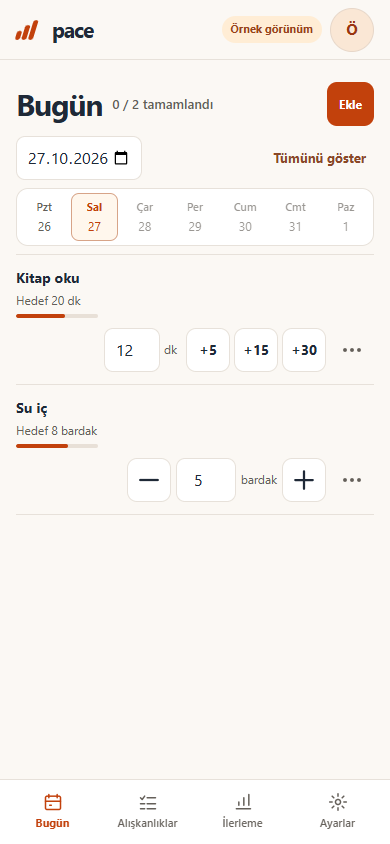
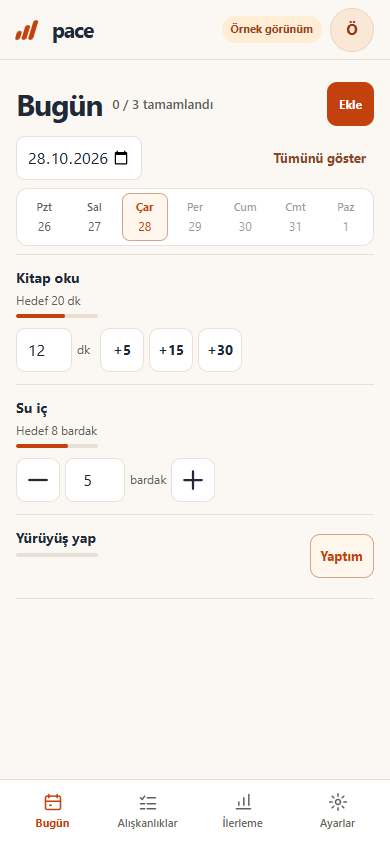
Keep Today focused on recording and add lifetime habit totals and averages

diff --git a/assets/js/app.js b/assets/js/app.js
@@ -1,3 +1,4 @@
+import {habitStatistics} from './statistics.js';
 import {request,isDemo,exportData} from './api.js';
 import {dateKey,parseDate,addDays,weekStart,weekDays,settingsAt,scheduled,amountFor,goalFor,stateFor,dueToday,formatNumber,WEEKDAYS,WEEKDAY_VALUES} from './rules.js';
 import {createEntryQueue} from './entry-queue.js';
@@ -35,14 +36,27 @@ function dayMetrics(habit,day,logs){const h=settingsAt(habit,day),actual=amountF
 function rowMeta(habit,day,logs){const m=dayMetrics(habit,day,logs),h=m.h;let text=h.tracking==='check'?'':(h.direction==='at_most'?'En fazla ':'Hedef ')+formatNumber(m.goal)+(h.unit?' '+shortUnit(h.unit):'');if(h.schedule?.type==='weekly_quota'){const w=stateFor(habit,day,logs,state.week_start);text=(text?text+' · ':'')+'Hafta '+formatNumber(w.actual)+' / '+formatNumber(w.goal)+' gün'}else if(!scheduled(habit,day,state.week_start))text=(text?text+' · ':'')+'Plan dışı';if(h.progression?.enabled)text+=' · +'+formatNumber(h.progression.step);return text}
 function feedbackHTML(id,day){const k=keyFor(id,day),raw=invalidDrafts.get(k),e=entryQueue?.get(id,day);const args=' data-id="'+esc(id)+'" data-day="'+day+'"';if(raw!==undefined)return '<span>Geçerli bir miktar gir.</span><button type="button" class="text-button" data-action="discard"'+args+'>Vazgeç</button>';if(!e)return '';if(e.status==='pending'||e.status==='saving')return '<span>Kaydediliyor…</span>';if(e.status==='error'||e.status==='conflict')return '<span>'+(e.status==='conflict'?'Başka cihazda değişti.':'Kaydedilemedi.')+'</span><button type="button" class="text-button" data-action="retry"'+args+'>'+(e.status==='conflict'?'Yeniden uygula':'Yeniden dene')+'</button><button type="button" class="text-button" data-action="undo"'+args+'>Geri al</button>';if(e.canUndo)return '<button type="button" class="text-button" data-action="undo"'+args+'>Geri al</button>';return ''}
 function habitRow(habit,day){const logs=logsForDisplay(),m=dayMetrics(habit,day,logs),h=m.h,k=keyFor(habit.id,day),value=invalidDrafts.has(k)?invalidDrafts.get(k):m.actual,args=' data-id="'+esc(habit.id)+'" data-day="'+day+'"';let actions;if(h.tracking==='check')actions='<button type="button" class="log-button '+(m.done?'is-complete':'')+'" data-action="toggle"'+args+' aria-pressed="'+m.done+'" aria-label="'+esc(h.name)+(m.done?' kaydını geri al':': yaptım olarak işaretle')+'">'+(m.done?checkIcon+'<span>Yaptım</span>':'Yaptım')+'</button>';else {const input='<label class="sr-only" for="amount-'+esc(habit.id)+'">'+esc(h.name)+(isMinutes(h.unit)?' süresi':' miktarı')+'</label><input class="amount-input" id="amount-'+esc(habit.id)+'" type="number" inputmode="decimal" min="0" max="1000000" step="any" autocomplete="off" value="'+esc(value)+'"'+args+' aria-describedby="feedback-'+esc(habit.id)+'">';if(isMinutes(h.unit))actions='<div class="amount-control time-control">'+input+'<span class="amount-unit">dk</span>'+[5,15,30].map(n=>'<button type="button" class="step-button time-step" data-action="time-step"'+args+' data-delta="'+n+'" aria-label="'+esc(h.name)+' süresine '+n+' dakika ekle">+'+n+'</button>').join('')+'</div>';else actions='<div class="amount-control"><button type="button" class="step-button" data-action="step"'+args+' data-delta="-1" aria-label="'+esc(h.name)+' miktarını azalt">'+icon('<path d="M5 12h14"/>')+'</button>'+input+'<span class="amount-unit">'+esc(h.unit)+'</span><button type="button" class="step-button" data-action="step"'+args+' data-delta="1" aria-label="'+esc(h.name)+' miktarını artır">'+icon('<path d="M5 12h14M12 5v14"/>')+'</button></div>';}
-return '<article class="habit-row '+(h.tracking==='check'?'is-check':'is-quantity')+(m.done?' is-complete':'')+'" data-habit-row="'+esc(habit.id)+'"><div class="habit-main"><div class="habit-copy"><h2>'+esc(h.name)+'</h2><p class="habit-meta">'+esc(rowMeta(habit,day,logs))+'</p><div class="habit-progress"><div class="progress-track" role="progressbar" aria-label="'+esc(h.name)+' günlük ilerleme" aria-valuemin="0" aria-valuemax="100" aria-valuenow="'+Math.round(m.progress*100)+'"><div class="progress-fill" style="width:'+Math.round(m.progress*100)+'%"></div></div><span class="progress-label">'+(m.done?'Tamamlandı':m.h.direction==='at_most'&&!m.exists?'Kayıt yok':'')+'</span></div></div></div><div class="habit-actions">'+actions+'<button type="button" class="more-button" data-action="edit" data-id="'+esc(habit.id)+'" aria-label="'+esc(h.name)+' ayarları">'+moreIcon+'</button></div><div class="entry-feedback" id="feedback-'+esc(habit.id)+'" aria-live="off">'+feedbackHTML(habit.id,day)+'</div></article>'}
+return '<article class="habit-row '+(h.tracking==='check'?'is-check':'is-quantity')+(m.done?' is-complete':'')+'" data-habit-row="'+esc(habit.id)+'"><div class="habit-main"><div class="habit-copy"><h2>'+esc(h.name)+'</h2><p class="habit-meta">'+esc(rowMeta(habit,day,logs))+'</p><div class="habit-progress"><div class="progress-track" role="progressbar" aria-label="'+esc(h.name)+' günlük ilerleme" aria-valuemin="0" aria-valuemax="100" aria-valuenow="'+Math.round(m.progress*100)+'"><div class="progress-fill" style="width:'+Math.round(m.progress*100)+'%"></div></div><span class="progress-label">'+(m.done?'Tamamlandı':m.h.direction==='at_most'&&!m.exists?'Kayıt yok':'')+'</span></div></div></div><div class="habit-actions">'+actions+'</div><div class="entry-feedback" id="feedback-'+esc(habit.id)+'" aria-live="off">'+feedbackHTML(habit.id,day)+'</div></article>'}
 function updateRow(id,day){if(day!==selectedDate)return;const habit=state.habits.find(h=>h.id===id),row=$('#today-list').querySelector('[data-habit-row="'+CSS.escape(id)+'"]');if(!habit||!row)return;const logs=logsForDisplay(),m=dayMetrics(habit,day,logs),input=$('.amount-input',row);row.classList.toggle('is-complete',m.done);$('.habit-meta',row).textContent=rowMeta(habit,day,logs);$('.progress-fill',row).style.width=Math.round(m.progress*100)+'%';$('.progress-track',row).setAttribute('aria-valuenow',String(Math.round(m.progress*100)));$('.progress-label',row).textContent=m.done?'Tamamlandı':m.h.direction==='at_most'&&!m.exists?'Kayıt yok':'';if(input&&document.activeElement!==input)input.value=invalidDrafts.get(keyFor(id,day))??m.actual;if(input)input.setAttribute('aria-invalid',String(invalidDrafts.has(keyFor(id,day))));const button=$('.log-button',row);if(button){button.classList.toggle('is-complete',m.done);button.setAttribute('aria-pressed',String(m.done));button.setAttribute('aria-label',m.h.name+(m.done?' kaydını geri al':': yaptım olarak işaretle'));button.innerHTML=m.done?checkIcon+'<span>Yaptım</span>':'Yaptım'}const feedback=$('.entry-feedback',row),focusedFeedback=feedback.contains(document.activeElement);feedback.innerHTML=feedbackHTML(id,day);if(focusedFeedback)(input||button)?.focus({preventScroll:true});}
 function updateSummary(){const logs=logsForDisplay(),planned=state.habits.filter(h=>dueToday(h,selectedDate,logs,state.week_start)),done=planned.filter(h=>settingsAt(h,selectedDate).schedule?.type==='weekly_quota'?stateFor(h,selectedDate,logs,state.week_start).status==='done':dayMetrics(h,selectedDate,logs).done).length;$('#today-completion').textContent=ready&&planned.length?done+' / '+planned.length+' tamamlandı':'';const entries=[...entryStates.values()].map(e=>e.entry);if(entries.some(e=>e.status==='error'||e.status==='conflict')||invalidDrafts.size)syncState('Kaydedilmemiş giriş var','error');else if(entries.some(e=>e.status==='pending'||e.status==='saving'))syncState('Kaydediliyor…','pending');else if(ready)syncState(Date.now()-lastSaveAt<3000?'Kaydedildi':'','saved')}
 function renderToday(){const today=dateKey();$('#page-title').textContent=selectedDate===today?'Bugün':new Intl.DateTimeFormat('tr-TR',{day:'numeric',month:'short'}).format(parseDate(selectedDate));$('#weekday-label').textContent=fmtDate(selectedDate);$('#record-date').value=selectedDate;$('#record-date').max=today;$('#back-today').classList.toggle('hidden',selectedDate===today);const logs=logsForDisplay(),active=state.habits.filter(h=>{const v=settingsAt(h,selectedDate);return !v.archived_at&&!v.paused&&selectedDate>=h.start_date}),rows=active.filter(h=>showAll||dueToday(h,selectedDate,logs,state.week_start));$('#today-list').innerHTML=ready?rows.map(h=>habitRow(h,selectedDate)).join(''):'';$('#today-list').setAttribute('aria-busy',String(!ready));$('#today-empty').classList.toggle('hidden',!ready||state.habits.length>0);$('#rest-day').classList.toggle('hidden',!ready||state.habits.length===0||rows.length>0);$('#show-all-habits').classList.toggle('hidden',!ready||!state.habits.length);$('#show-all-habits').setAttribute('aria-pressed',String(showAll));$('#show-all-habits').textContent=showAll?'Yalnızca planlılar':'Tümünü göster';$('#view-today .page-heading .add-habit-trigger').classList.toggle('hidden',!ready||state.habits.length===0);renderWeekStrip();updateSummary()}
 function renderWeekStrip(){const today=dateKey(),logs=logsForDisplay();$('#week-strip').innerHTML=weekDays(selectedDate,state.week_start).map(day=>{const done=state.habits.some(h=>dueToday(h,day,logs,state.week_start)&&dayMetrics(h,day,logs).done);const name=new Intl.DateTimeFormat('tr-TR',{weekday:'short'}).format(parseDate(day));return '<button type="button" class="week-day '+(day===selectedDate?'is-selected ':'')+(day===today?'is-today ':'')+(done?'has-done':'')+'" data-action="date" data-day="'+day+'" aria-label="'+esc(fmtDate(day))+(day===today?', bugün':'')+'" aria-pressed="'+(day===selectedDate)+'"'+(day===today?' aria-current="date"':'')+(day>today?' disabled':'')+'><b>'+name+'</b><span>'+parseDate(day).getDate()+'</span></button>'}).join('')}
 function scheduleLabel(h){const s=h.schedule||{};return s.type==='daily'?'Her gün':s.type==='weekdays'?(s.days||[]).map(d=>WEEKDAYS[WEEKDAY_VALUES.indexOf(d)]).join(', '):'Haftada '+s.times_per_week+' gün'}
 function renderHabits(){const active=state.habits.filter(h=>!h.archived_at),archived=state.habits.filter(h=>h.archived_at);const render=h=>'<article class="manage-row" data-manage-row="'+esc(h.id)+'"><div class="manage-main"><div><h2>'+esc(h.name)+'</h2><p>'+esc(scheduleLabel(h))+(h.tracking==='quantity'?' · '+formatNumber(h.target)+' '+esc(h.unit):'')+'</p>'+(h.paused&&!h.archived_at?'<span class="manage-status">Duraklatıldı</span>':'')+'</div></div><div class="manage-actions">'+(h.archived_at?'<button class="button button-quiet" data-action="restore" data-id="'+esc(h.id)+'">Geri yükle</button>':'<button class="button button-quiet small-action" data-action="edit" data-id="'+esc(h.id)+'">Düzenle</button><button class="more-button" data-action="menu" data-id="'+esc(h.id)+'" aria-label="'+esc(h.name)+' diğer işlemler">'+moreIcon+'</button>')+'</div></article>';$('#all-habits-list').innerHTML=active.map(render).join('');$('#archive-list').innerHTML=archived.map(render).join('');$('#archived-habits').classList.toggle('hidden',!archived.length);$('#archive-count').textContent=String(archived.length);$('#habits-empty').classList.toggle('hidden',!ready||active.length>0||archived.length>0)}
-function renderProgress(){const period=Number($('#progress-period').value||7),end=dateKey(),start=addDays(end,-period+1),logs=state.checkins;let completed=0;const uniqueDays=new Set(logs.filter(x=>!x.deleted&&x.habit_date>=start&&x.habit_date<=end).map(x=>x.habit_date));const items=state.habits.filter(h=>!h.archived_at).map(h=>{let planned=0,done=0;const totals={};for(let day=start;day<=end;day=addDays(day,1)){if(!dueToday(h,day,logs,state.week_start))continue;const m=dayMetrics(h,day,logs);if(m.done){done++;completed++}if(m.h.schedule?.type!=='weekly_quota')planned++;if(m.h.tracking==='quantity'&&m.exists)totals[m.h.unit||'birim']=(totals[m.h.unit||'birim']||0)+m.actual}const current=settingsAt(h,end),weekly=current.schedule?.type==='weekly_quota',w=weekly?stateFor(h,end,logs,state.week_start):null,pct=weekly?Math.round(w.progress*100):planned?Math.min(100,Math.round(done/planned*100)):0,text=weekly?'Bu hafta '+w.actual+' / '+w.goal+' gün':done+' / '+planned+' planlı gün';return '<article class="progress-item"><div class="progress-item-head"><h3>'+esc(h.name)+'</h3><strong>'+pct+'%</strong></div><p>'+text+'</p>'+(Object.keys(totals).length?'<p>'+Object.entries(totals).map(([unit,value])=>formatNumber(value)+' '+esc(unit)).join(' · ')+'</p>':'')+'<div class="progress-track" role="progressbar" aria-label="'+esc(h.name)+' ilerleme" aria-valuemin="0" aria-valuemax="100" aria-valuenow="'+pct+'"><div class="progress-fill" style="width:'+pct+'%"></div></div></article>'});$('#progress-summary').innerHTML='<div class="metric"><strong>'+completed+'</strong><span>Tamamlanan günlük kayıt</span></div><div class="metric"><strong>'+uniqueDays.size+'</strong><span>Kayıt yapılan gün</span></div>';$('#progress-list').innerHTML=items.join('')||'<p class="rest-state">Henüz kayıt yok.</p>'}
+function renderProgress(){
+const period=$('#progress-period').value,end=dateKey(),start=period==='all'?'':addDays(end,-Number(period)+1),days=new Set();let completed=0;
+const stat=(label,value,unit='')=>'<div><dt>'+label+'</dt><dd>'+esc(value)+(unit?' <span>'+esc(unit)+'</span>':'')+'</dd></div>';
+const items=state.habits.map(h=>{const s=habitStatistics(h,state.checkins,{start,end,weekStart:state.week_start});s.dates.forEach(d=>days.add(d));completed+=s.completedDays;
+const title='<div class="progress-item-head"><h2>'+esc(h.name)+'</h2>'+(h.archived_at?'<span class="stat-badge">Arşiv</span>':h.paused?'<span class="stat-badge">Duraklatıldı</span>':'')+'</div>';
+if(!s.recordedDays)return '<article class="progress-item">'+title+'<p class="statistics-empty">Bu dönemde kayıt yok.</p></article>';
+const groups=s.groups.map(g=>'<dl class="habit-statistics">'+stat('Toplam',formatNumber(g.total),g.unit)+stat('Ortalama / kayıt günü',formatNumber(g.average),g.unit)+stat('En yüksek / gün',formatNumber(g.best),g.unit)+stat('Kayıt yapılan',g.days,'gün')+'</dl>').join('');
+const check=s.checkDays||(!s.groups.length&&h.tracking==='check')?'<dl class="habit-statistics check-statistics">'+stat('Tamamlanan',s.checkDays,'gün')+stat('Kayıt yapılan',s.recordedDays,'gün')+'</dl>':'';
+const date=new Intl.DateTimeFormat('tr-TR',{day:'numeric',month:'short',year:'numeric'}).format(parseDate(s.lastDate));
+return '<article class="progress-item" data-stat-habit="'+esc(h.id)+'">'+title+groups+check+'<p class="statistics-last">Son kayıt · '+date+'</p></article>'});
+$('#progress-summary').innerHTML='<span><strong>'+completed+'</strong> tamamlanan kayıt</span><span><strong>'+days.size+'</strong> kayıt günü</span>';
+$('#progress-list').innerHTML=items.join('')||'<p class="rest-state">Alışkanlık eklediğinde istatistiklerin burada görünecek.</p>';
+}
+
 function renderAll(){$('#week-start').value=String(state.week_start);renderToday();renderHabits();renderProgress()}
 
 let habitLauncher=null;

diff --git a/index.html b/index.html
@@ -2,7 +2,7 @@
 <html lang="tr">
 <head>
   <meta charset="utf-8">
-  <meta name="viewport" content="width=device-width, initial-scale=1, viewport-fit=cover">
+  <meta name="viewport" content="width=device-width, initial-scale=1, maximum-scale=1, user-scalable=no, viewport-fit=cover">
   <meta name="theme-color" content="#fbf8f4">
   <meta name="description" content="PACE ile alışkanlıklarını kendi ritminde takip et.">
   <link rel="apple-touch-icon" href="/assets/icons/pace-180.png">
@@ -36,7 +36,7 @@
           <div id="rest-day" class="rest-state hidden"><p>Bu gün için planlı alışkanlık yok.</p><button class="text-button" data-action="show-all">Tümünü göster</button></div>
         </section>
         <section class="page-view hidden" id="view-habits" aria-labelledby="habits-title"><div class="page-heading"><div><h1 id="habits-title">Alışkanlıklar</h1></div><button class="button button-primary add-habit-trigger">Alışkanlık ekle <span aria-hidden="true">+</span></button></div><div id="all-habits-list" class="habit-list"></div><details id="archived-habits" class="archive-section hidden"><summary>Arşivlenenler <span id="archive-count"></span></summary><div id="archive-list" class="habit-list"></div></details><div id="habits-empty" class="empty-state hidden"><span class="empty-mark" aria-hidden="true">+</span><h2>Henüz alışkanlık yok</h2><button class="button button-primary add-habit-trigger">Alışkanlık ekle</button></div></section>
-        <section class="page-view hidden" id="view-progress" aria-labelledby="progress-title"><div class="page-heading"><div><h1 id="progress-title">İlerleme</h1></div><label class="period-select"><span class="sr-only">İlerleme dönemi</span><select id="progress-period"><option value="7">Son 7 gün</option><option value="30">Son 30 gün</option></select></label></div><div id="progress-summary" class="progress-summary"></div><div class="section-heading"><div><h2>Alışkanlık bazında</h2></div></div><div id="progress-list" class="progress-list"></div></section>
+        <section class="page-view hidden" id="view-progress" aria-labelledby="progress-title"><div class="page-heading"><div><h1 id="progress-title">İlerleme</h1></div><label class="period-select"><span class="sr-only">İlerleme dönemi</span><select id="progress-period"><option value="all">Tüm zamanlar</option><option value="30">Son 30 gün</option><option value="7">Son 7 gün</option></select></label></div><div id="progress-summary" class="progress-summary"></div><div id="progress-list" class="progress-list"></div></section>
         <section class="page-view hidden" id="view-settings" aria-labelledby="settings-title"><div class="page-heading"><div><h1 id="settings-title">Ayarlar</h1></div></div><div class="settings-layout"><section class="settings-section"><h2>Hesap</h2><div class="settings-row"><div><strong id="account-email">Demo görünümü</strong></div><button class="button button-quiet" id="signout-button">Çıkış yap</button></div></section><section class="settings-section"><h2>Tercihler</h2><label class="settings-row"><span><strong>Haftanın ilk günü</strong></span><select id="week-start"><option value="1">Pazartesi</option><option value="0">Pazar</option></select></label><div class="settings-row"><span><strong>Saat dilimi</strong></span><span id="device-timezone">Cihaz saat dilimi</span></div></section><section class="settings-section"><h2>Verilerin</h2><div class="settings-row"><div><strong>Yedeğini al</strong><p>Alışkanlıkların ve kayıtların JSON dosyası olarak iner.</p></div><button class="button button-quiet" id="export-button">Dışa aktar</button></div><div class="settings-row"><div><strong>Hesabını sil</strong><p>Bu işlem verilerini ve oturumlarını kaldırır.</p></div><button class="text-button danger-text" id="delete-account-button">Hesabı sil</button></div></section></div></section>
       </div>
       <nav class="mobile-nav" aria-label="Ana gezinme"><button class="nav-item is-active" data-view="today" aria-current="page"><span class="nav-icon"><svg viewBox="0 0 24 24" fill="none" stroke="currentColor" stroke-width="1.8" stroke-linecap="round" stroke-linejoin="round" aria-hidden="true"><rect x="3" y="5" width="18" height="16" rx="2"/><path d="M7 3v4m10-4v4M3 11h18m-13 5h2"/></svg></span><span>Bugün</span></button><button class="nav-item" data-view="habits"><span class="nav-icon"><svg viewBox="0 0 24 24" fill="none" stroke="currentColor" stroke-width="1.8" stroke-linecap="round" stroke-linejoin="round" aria-hidden="true"><path d="m3 7 2 2 3-4M11 7h10M3 14h5m3 0h10M3 20h5m3 0h10"/></svg></span><span>Alışkanlıklar</span></button><button class="nav-item" data-view="progress"><span class="nav-icon"><svg viewBox="0 0 24 24" fill="none" stroke="currentColor" stroke-width="1.8" stroke-linecap="round" stroke-linejoin="round" aria-hidden="true"><path d="M4 20h17M7 16v-4m6 4V7m6 9V3"/></svg></span><span>İlerleme</span></button><button class="nav-item" data-view="settings"><span class="nav-icon"><svg viewBox="0 0 24 24" fill="none" stroke="currentColor" stroke-width="1.8" stroke-linecap="round" stroke-linejoin="round" aria-hidden="true"><circle cx="12" cy="12" r="3"/><path d="M12 2v3m0 14v3M2 12h3m14 0h3M5 5l2 2m10 10 2 2M5 19l2-2M17 7l2-2"/></svg></span><span>Ayarlar</span></button></nav>

diff --git a/assets/styles.css b/assets/styles.css
@@ -17,3 +17,8 @@
 @media(max-width:640px){#view-today .page-heading{margin-bottom:10px}.day-controls,#day-controls{gap:4px 8px;margin-bottom:8px}.week-strip{margin-bottom:8px}.week-day{min-height:44px}#view-today .habit-row{padding-top:12px;padding-bottom:12px}}
 .avatar-button{color:#9a3412}.habit-copy h2{margin:0 0 3px;font-size:15px;font-weight:650;overflow-wrap:anywhere;line-height:inherit}.manage-main h2{margin:0;font-size:14px;font-weight:650;overflow-wrap:anywhere;line-height:inherit}.empty-state h2{font-size:17px;margin:0 0 4px}
 @media(max-width:640px){.habit-copy h2{font-size:14px}}
+
+/* Daily logging stays separate from infrequent habit management. */
+html{touch-action:pan-x pan-y;-webkit-text-size-adjust:100%;text-size-adjust:100%;overscroll-behavior-x:none}button,a,input,select,summary{touch-action:manipulation}input,select,textarea{font-size:16px}button{ -webkit-tap-highlight-color:transparent }
+#today-list .habit-actions{gap:0}#today-list .time-control{gap:5px}#progress-summary{display:flex;flex-wrap:wrap;gap:6px 18px;padding:0 0 20px;margin:0;color:var(--muted);font-size:13px}#progress-summary strong{color:var(--ink);font-variant-numeric:tabular-nums}.progress-item{padding:24px 0;border:0;border-top:1px solid var(--border);border-radius:0;background:transparent}.progress-item-head{display:flex;align-items:center;justify-content:space-between;gap:12px}.progress-item-head h2{margin:0;font-size:17px;font-weight:650;overflow-wrap:anywhere}.stat-badge{font-size:11px;color:var(--muted);flex-shrink:0}.habit-statistics{display:grid;grid-template-columns:repeat(4,minmax(0,1fr));gap:18px 12px;margin:18px 0 0}.habit-statistics>div{min-width:0}.habit-statistics dt{font-size:12px;color:var(--muted);margin-bottom:4px}.habit-statistics dd{margin:0;font-size:22px;font-weight:650;letter-spacing:-.5px;font-variant-numeric:tabular-nums;overflow-wrap:anywhere}.habit-statistics dd span{font-size:13px;font-weight:500;letter-spacing:0;color:var(--muted)}.progress-item .statistics-last,.progress-item .statistics-empty{margin:16px 0 0;font-size:12px;color:var(--muted)}.check-statistics{grid-template-columns:repeat(2,minmax(0,1fr))}
+@media(max-width:640px){#view-today .habit-row.is-quantity .habit-actions{justify-content:flex-start}#view-today .habit-row.is-quantity .amount-control{justify-content:flex-start;flex:0 1 auto}.habit-statistics{grid-template-columns:repeat(2,minmax(0,1fr));gap:18px 16px}.progress-item{padding:20px 0}.habit-statistics dd{font-size:24px}#view-progress .page-heading{align-items:center;gap:8px}#progress-period{min-height:44px;max-width:150px;font-size:16px}.mobile-nav{background:var(--surface);backdrop-filter:none}}

diff --git a/sw.js b/sw.js
@@ -1,5 +1,5 @@
-const CACHE='pace-shell-v3';
-const SHELL=['/','/index.html','/manifest.webmanifest','/assets/styles.css','/assets/js/app.js','/assets/js/api.js','/assets/js/rules.js','/assets/js/entry-queue.js','/assets/js/state-sync.js','/assets/js/habit-form.js','/assets/icons/pace.svg','/assets/icons/pace-180.png','/assets/icons/pace-192.png','/assets/icons/pace-512.png'];
+const CACHE='pace-shell-v4';
+const SHELL=['/','/index.html','/manifest.webmanifest','/assets/styles.css','/assets/js/app.js','/assets/js/api.js','/assets/js/rules.js','/assets/js/entry-queue.js','/assets/js/state-sync.js','/assets/js/statistics.js','/assets/js/habit-form.js','/assets/icons/pace.svg','/assets/icons/pace-180.png','/assets/icons/pace-192.png','/assets/icons/pace-512.png'];
 self.addEventListener('install',event=>event.waitUntil(caches.open(CACHE).then(c=>c.addAll(SHELL)).then(()=>self.skipWaiting())));
 self.addEventListener('activate',event=>event.waitUntil(caches.keys().then(keys=>Promise.all(keys.filter(k=>k.startsWith('pace-shell-')&&k!==CACHE).map(k=>caches.delete(k)))).then(()=>self.clients.claim())));
 self.addEventListener('fetch',event=>{const req=event.request,url=new URL(req.url);if(req.method!=='GET'||url.origin!==self.location.origin||url.pathname.startsWith('/api/'))return;if(req.mode!=='navigate'&&!SHELL.includes(url.pathname))return;event.respondWith((async()=>{const cache=await caches.open(CACHE),key=req.mode==='navigate'?'/index.html':req;const controller=new AbortController(),timer=setTimeout(()=>controller.abort(),4500);try{const res=await fetch(req,{cache:'no-cache',signal:controller.signal});if(res.ok)await cache.put(key,res.clone());return res}catch{return await cache.match(key)||Response.error()}finally{clearTimeout(timer)}})())});

diff --git a/assets/js/statistics.js b/assets/js/statistics.js
@@ -1,0 +1,11 @@
+import {settingsAt,goalFor} from './rules.js';
+const unitKey=unit=>{const value=String(unit||'').trim();return ['dk','dakika','min','minute','minutes'].includes(value.toLocaleLowerCase('tr-TR').replaceAll('.',''))?'dk':value||'birim'};
+/** Average uses recorded dates, including explicit zero; different historical units never mix. */
+export function habitStatistics(habit,checkins,{start='',end,weekStart=1}={}) {
+  const latest=new Map();
+  for(const row of checkins){if(row.habit_id!==habit.id)continue;const previous=latest.get(row.habit_date);if(!previous||Number(row.revision||0)>=Number(previous.revision||0))latest.set(row.habit_date,row)}
+  const history=[...latest.values()],rows=history.filter(r=>!r.deleted&&r.habit_date>=(habit.start_date||'')&&r.habit_date>=start&&r.habit_date<=end&&Number.isFinite(Number(r.value))&&Number(r.value)>=0).sort((a,b)=>a.habit_date.localeCompare(b.habit_date));
+  const groups=new Map();let checkDays=0,completedDays=0;
+  for(const row of rows){const h=settingsAt(habit,row.habit_date),value=Number(row.value);if(h.tracking==='check'){if(value>=1){checkDays++;completedDays++}continue}const unit=unitKey(h.unit),group=groups.get(unit)||{unit,total:0,days:0,best:0};group.total+=value;group.days++;group.best=Math.max(group.best,value);groups.set(unit,group);const goal=goalFor(habit,row.habit_date,history,weekStart);if(h.direction==='at_most'?value<=goal:value>=goal)completedDays++}
+  return {groups:[...groups.values()].map(g=>({...g,average:g.total/g.days})),recordedDays:rows.length,completedDays,checkDays,lastDate:rows.at(-1)?.habit_date||null,dates:rows.map(r=>r.habit_date)};
+}

diff --git a/docs/UX-REVIEW.md b/docs/UX-REVIEW.md
@@ -38,3 +38,9 @@ Creating specialized rules requires the corresponding extra selection. These cou
 ## Limits
 
 This is a tested release, not a guarantee of a faultless interface. Browser automation used Chromium. Native iOS/Safari keyboard and standalone-PWA behavior were not tested on a physical phone. Offline writes show a recoverable pending/error state rather than claiming cloud persistence. Legacy pause history cannot be reconstructed when earlier versions never stored dated pause settings.
+
+## 28 October follow-up
+
+Removed Today edit menus; editing remains in Habits. Added lifetime statistics and last 7/30-day filters. Averages use recorded days including explicit zero. Unit changes, tombstones, archived history, period bounds and empty states are covered by eight new tests. Mobile viewport is configured at fixed scale at the owner’s request; all inputs stay at least16px, and touch controls avoid double-tap zoom. Browsers can retain accessibility overrides.
+
+Verification:57 automated logic checks and26 browser checks passed, with no runtime/fixture errors. The additional browser checks cover Today controls, editing from Habits, lifetime vs period totals/means, responsive reports and viewport/input sizing. Screenshots were inspected at390px, with overflow checks down to320px. Native iOS gestures were not tested on a physical device.

diff --git a/PRODUCT.md b/PRODUCT.md
@@ -15,3 +15,7 @@ PACE is a Turkish habit tracker for ordinary daily routines, quantities and time
 ## Boundaries
 
 The product is mobile first and a PWA. It has no social feed, streak pressure, coaching paragraphs or compulsory goal escalation. Carryover and increasing targets are off by default. Offline account writes remain pending until explicitly retried; the application does not imply that an unconfirmed save reached the server.
+
+## Lifetime statistics
+
+Today contains recording actions only; edit routines in Habits. Progress defaults to all time, with last30/7 days filters. Quantities show total, average per recorded date (explicit zero included), best daily amount, recorded dates and last entry. Historical units remain separate; archived habits remain in reports. Missing dates are not fabricated as zero. Check habits show completed and recorded days.

diff --git a/DESIGN.md b/DESIGN.md
@@ -22,3 +22,7 @@ Use short labels and retain explanations only for a meaningful rule, error, reco
 ## Review notes
 
 The mechanical design detector found an avatar contrast issue and a skipped heading level; these were corrected. Its dialog-padding warning referred to the unpadded outer dialog, whose header/body/footer have explicit padding. The warm canvas is an intentional existing brand choice.
+
+## Mobile refinement — 28 October 2026
+
+Remove Today row overflow/edit actions. Align amount controls to the left on phones. Keep navigation fixed with an opaque surface. Use minimum16px inputs and a fixed viewport scale per the product owner request; touch gestures prioritize scrolling rather than accidental zoom. Progress uses quiet ruled sections and two-column mobile definition lists, not charts without meaningful data.

diff --git a/README.md b/README.md
@@ -17,6 +17,8 @@
 - Optionally carry an unfinished minimum goal to the next planned period.
 - Keep account data in Cloudflare D1 and sign in with an email address and password.
 - Install the website as a PWA; the app shell can open offline, while cloud saves clearly require a connection.
+- Review all-time or last 7/30-day totals, averages per recorded day, highest daily amounts, and entry dates. Historical units remain separate and archived habits remain in reports.
+- Keep daily recording separate from editing in the Habits screen.
 - Export your account data as JSON.
 
 PACE uses supportive, neutral status labels. Unscheduled days do not count as missed days.
